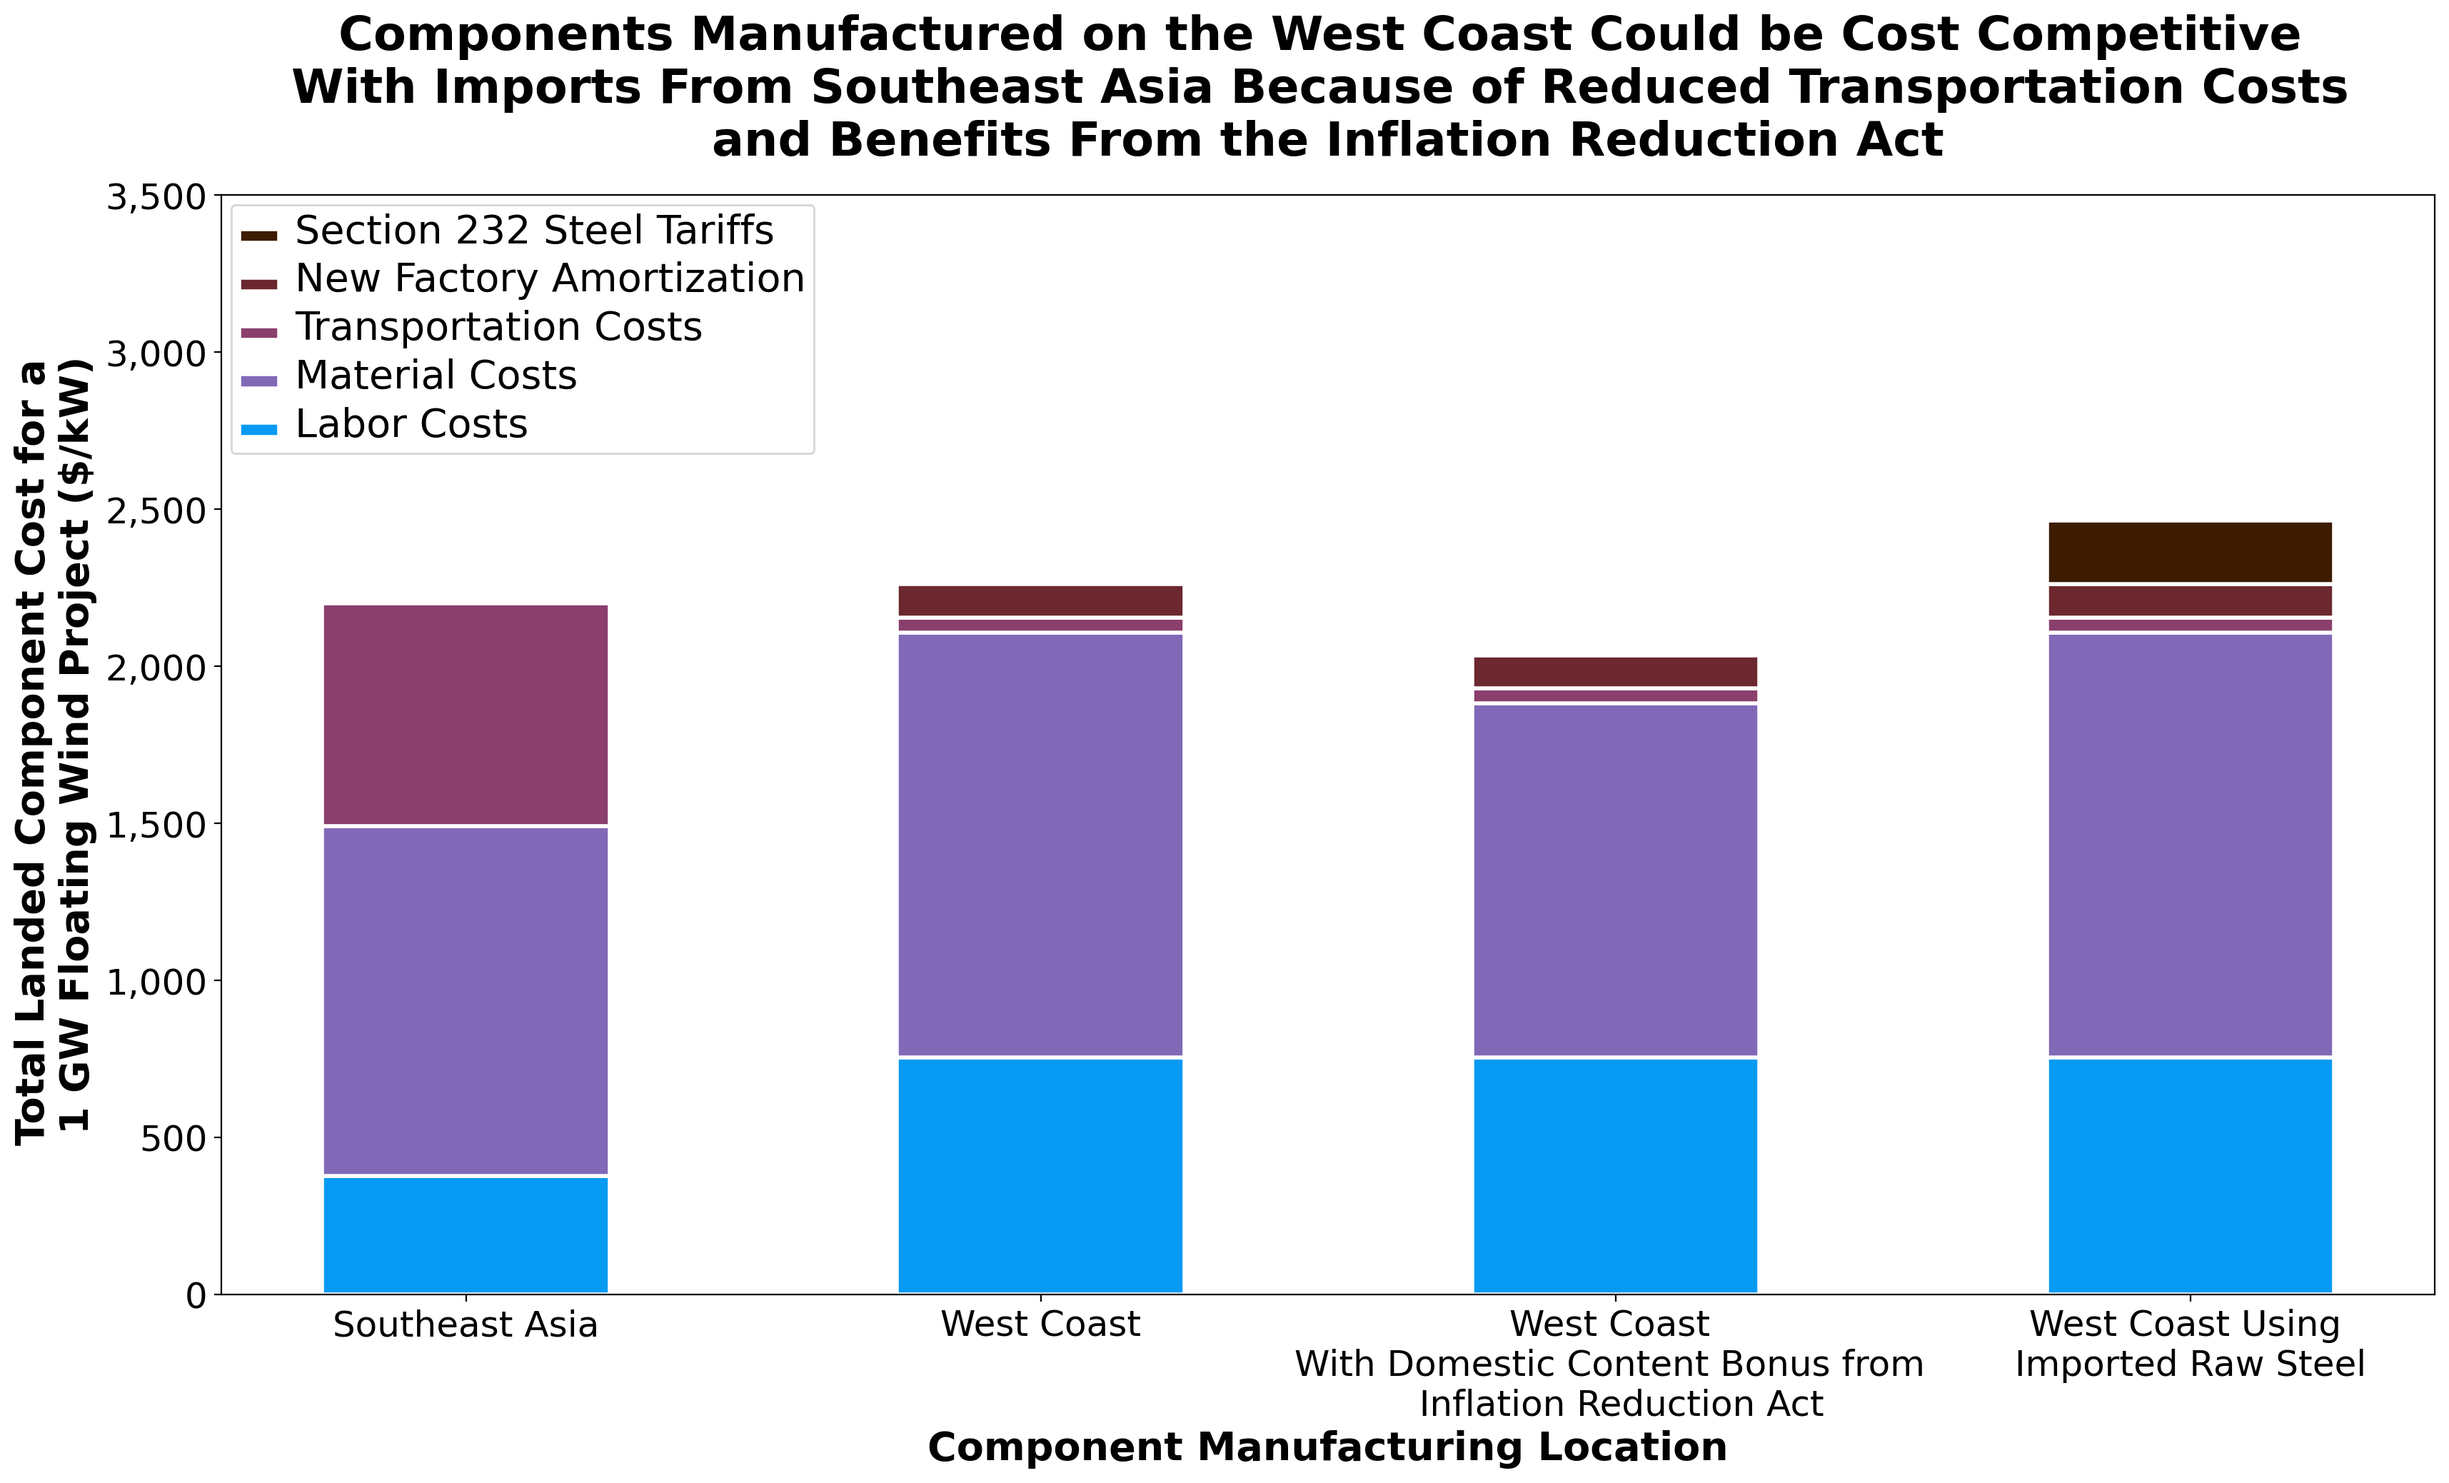
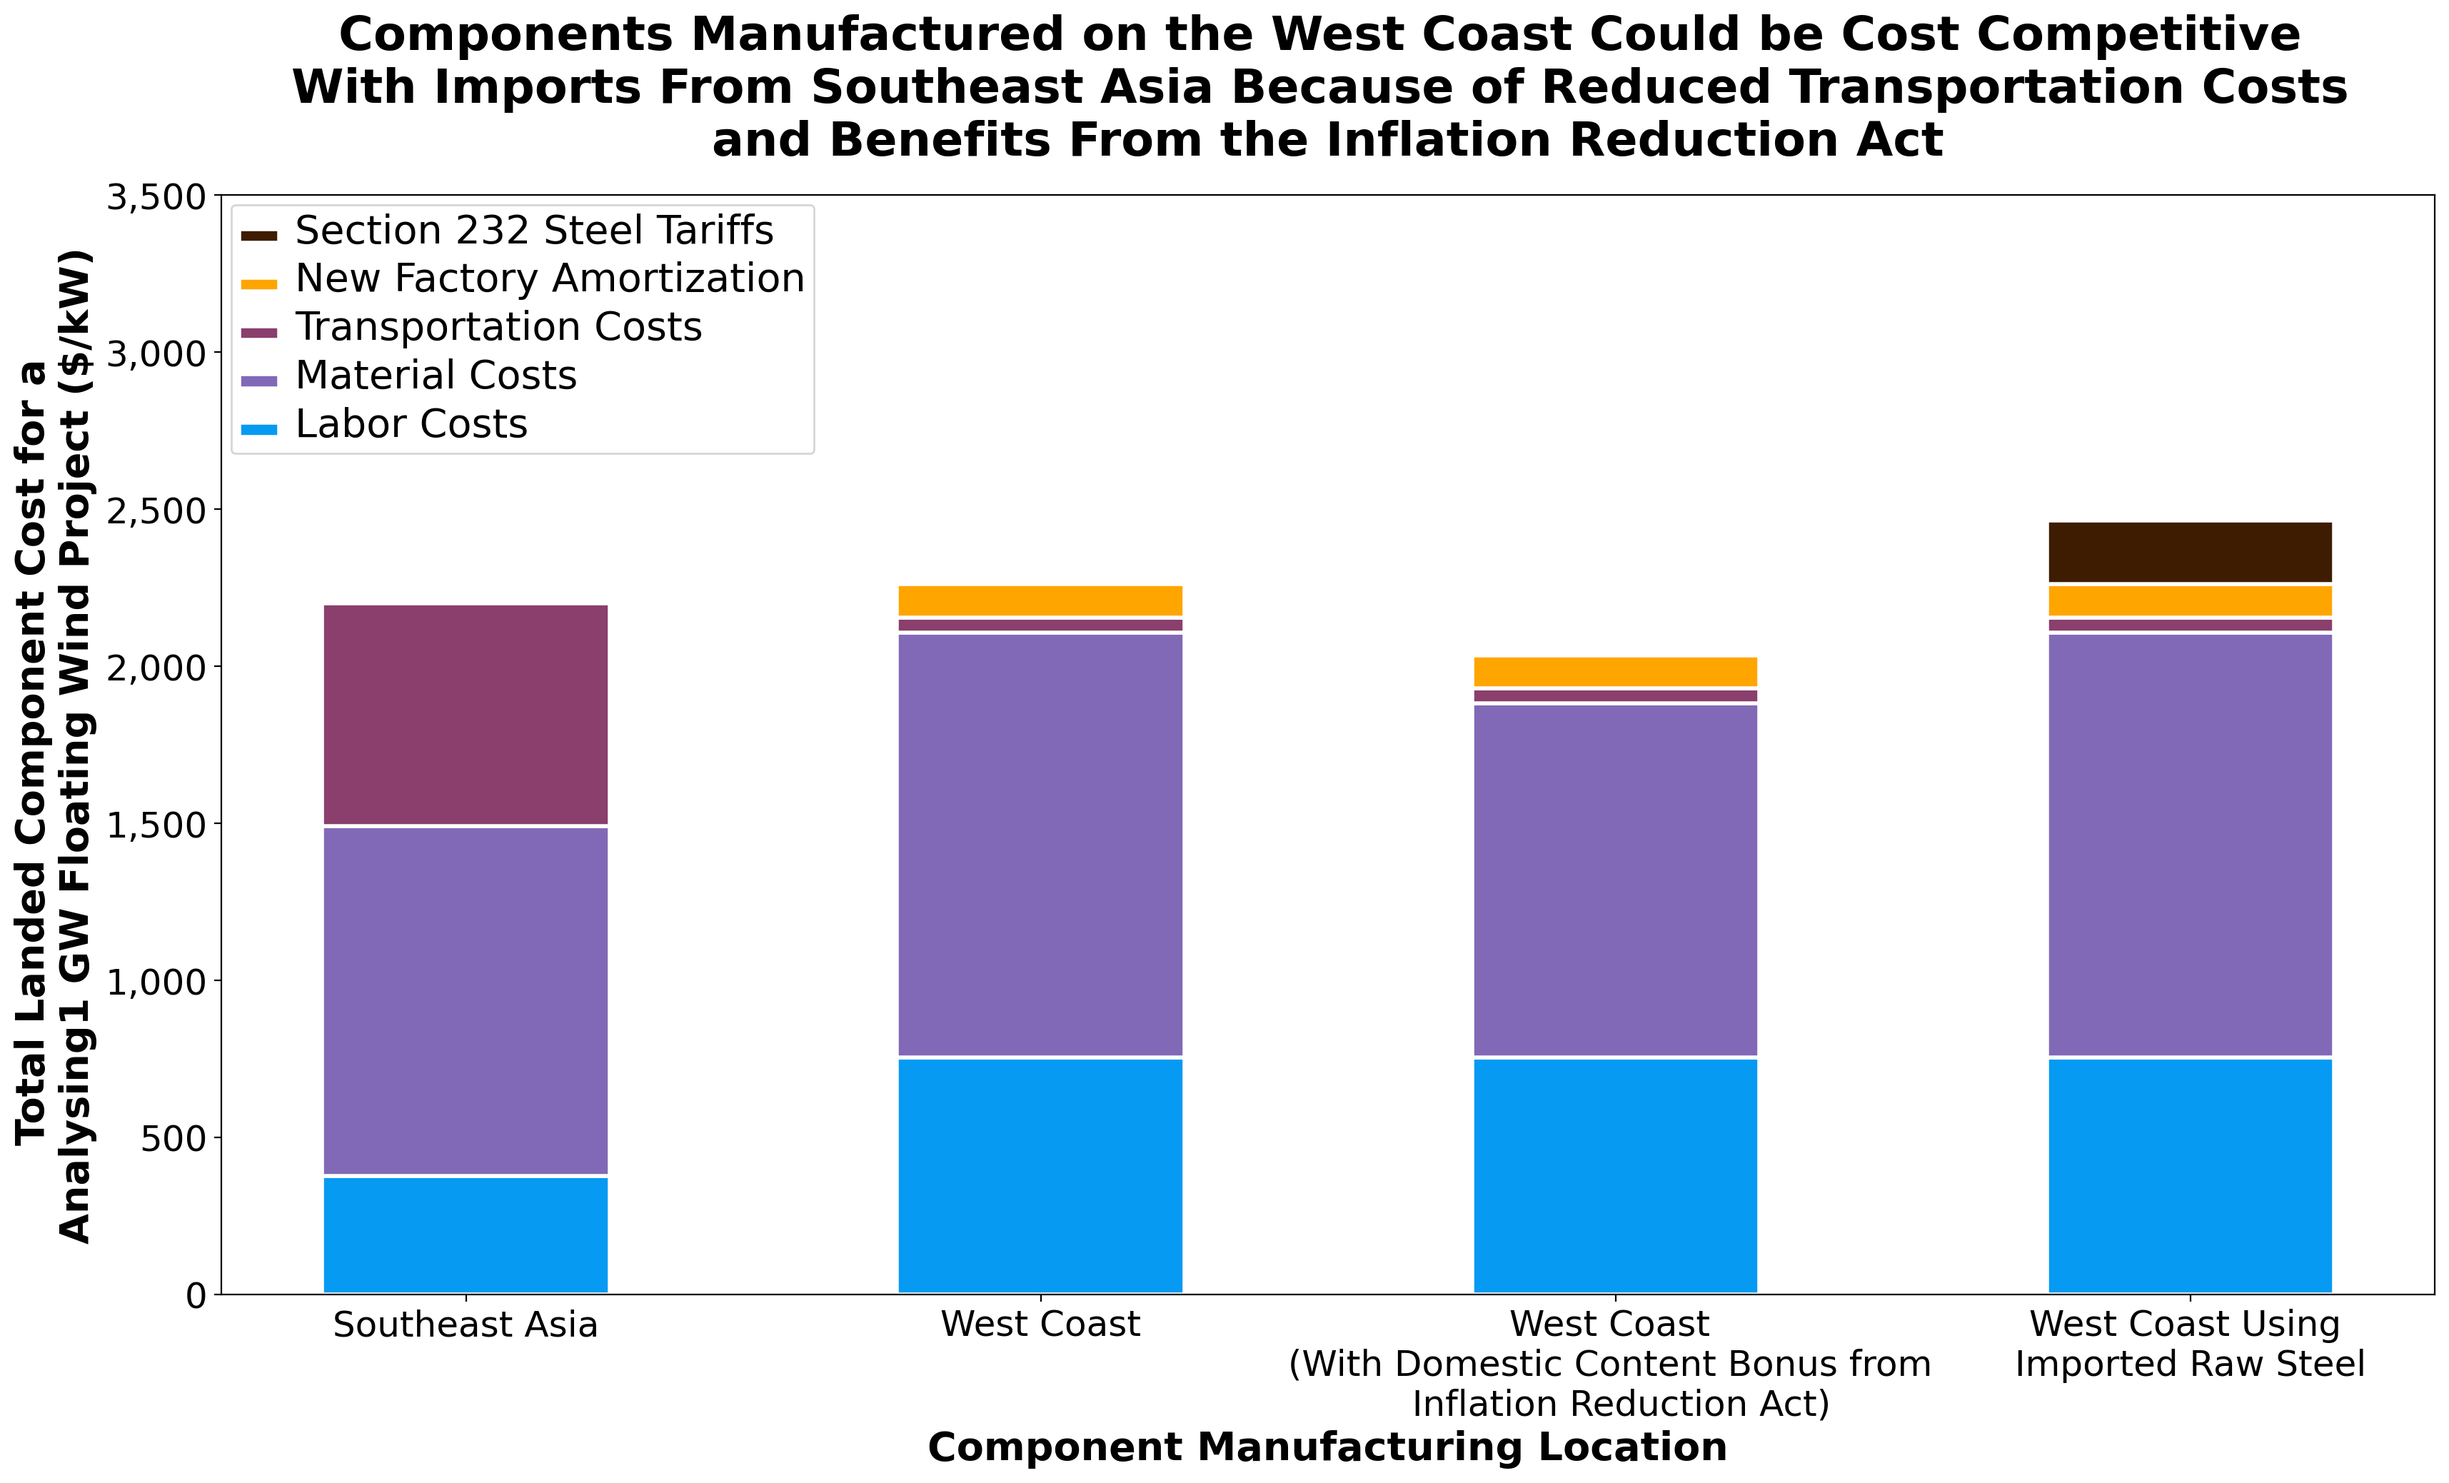
Color change and file cleanup

diff --git a/plt_waterfall.py b/plt_waterfall.py
@@ -7,26 +7,6 @@ df = pd.read_excel('waterfall chart calculations_test.xlsx', sheet_name = 'domes
 
 def plot_waterfall_domestic_content(df, fname):
     fig, ax = initFigAxis(figx=20, figy=10)
-
-    # scenario = df['scenario'].to_list() 
-    # value = df['value'].to_list() 
-
-    # bottom = [0] * 8
-    # for i in range (1,5):
-        # bottom[i] = bottom[i-1] + value[i-1]
-    # bottom[6] = value[5]
-
-    # c=['#3498DB']*8
-    # for i in [1,2,3,4,6]:
-        # if value[i]>0: 
-            # c[i]='#F1C40F'
-        # else:
-            # c[i]='#27AE60'
-
-    # scenario = scenario[:5] + scenario[6:]
-    # value = value[:5] + value[6:]
-    # bottom = bottom[:5] + bottom[6:]
-    # c = c[:5] + c[6:]
     
     scenarios = {
         'se_asia': {
@@ -54,16 +34,7 @@ def plot_waterfall_domestic_content(df, fname):
             'Transportation Costs': 48,
             'New Factory Amortization': 105,
             'Section 232 Steel Tariffs': 203,
-        },
-        # 'us_steel':  {
-            # 'Labor Costs': 756,
-            # 'Material Costs': 1352,
-            # 'Transportation Costs': 48,
-            # 'New Factory Amortization': 105,
-            # 'Section 232 Steel Tariffs': 203,
-        # }
-       
-        
+        },            
     }
    
         
@@ -71,7 +42,7 @@ def plot_waterfall_domestic_content(df, fname):
         'Labor Costs': '#069af3',
         'Material Costs': '#8169b7',
         'Transportation Costs': '#8a3f6d',
-        'New Factory Amortization': '#6b282f',
+        'New Factory Amortization': '#ffa500',
         # 'IRA Domestic Content Bonus Credits': '#ff6e54',
         'Section 232 Steel Tariffs': '#3d1c02',        
     }
@@ -113,82 +84,17 @@ def plot_waterfall_domestic_content(df, fname):
     
     ax.set_xlabel('Component Manufacturing Location')
             
-    
-
-    # bars = ax.bar(scenario,value,bottom=bottom,color=c, width=0.7)
     ax.set_title('Components Manufactured on the West Coast Could be Cost Competitive \nWith Imports From Southeast Asia Because of Reduced Transportation Costs \nand Benefits From the Inflation Reduction Act')
 
-# Cost Comparison of US West Coast and Southeast Asia Supply Chains: \nAnalysing the Impact of Domestic Content Benefits and Reduced Transportation Costs
-# A West Coast scenario could be cost competitive to the South East Asia supply chain \nconsidering Domestic Content Benefits and Reduced Transportation Costs
     ax.set_ylim(0, 3500)
     ax.set_ylabel('Total Landed Component Cost for a \nAnalysing1 GW Floating Wind Project ($/kW)')
 
     ax.get_yaxis().set_major_formatter(
         mpl.ticker.FuncFormatter(lambda x, p: format(int(x), ',')))
 
-    # ax.set_xticklabels(scenarios, rotation=45)
-
-    # for i, bar in enumerate(bars): 
-        # if value[i] > 0:
-            # ax.text(bar.get_x() + bar.get_width()/2, bottom[i] + value[i]*1.01, int(value[i]), ha='center', va='bottom', color='black')
-        # else:
-            # ax.text(bar.get_x() + bar.get_width()/2, bottom[i]+value[i]*1.1, int(value[i]), ha='center', va='top', color='black')
-
-    # plt.show()
     if fname is not None:
         myformat(ax)
         mysave(fig, fname)
 
-# def plot_waterfall_steel(df, fname):
-#     fig, ax = initFigAxis(figx=20, figy=10)
-
-#     scenario = df['scenario'].to_list() 
-#     value = df['value'].to_list() 
-
-#     value[4], value[6] = value[6], value[4]
-#     value[5] = sum(value[:5])
-
-#     bottom = [0] * 8
-#     for i in range (1,5):
-#         bottom[i] = bottom[i-1] + value[i-1]
-#     bottom[6] = value[5]
-
-#     c=['#3498DB']*8
-#     for i in [1,2,3,4,6]:
-#         if value[i]>0: 
-#             c[i]='#F1C40F'
-#         else:
-#             c[i]='#27AE60'
-
-#     scenario = scenario[:5] + scenario[6:]
-#     value = value[:5] + value[6:]
-#     bottom = bottom[:5] + bottom[6:]
-#     c = c[:5] + c[6:]
-
-#     bars = ax.bar(scenario,value,bottom=bottom,color=c, width=0.7)
-#     ax.set_title('US will need sufficient domestic steel production to qualify for tariffs to avoid higher project costs')
-
-#     ax.set_ylim(0, 3500)
-#     ax.set_ylabel('Manufacturing Cost ($/kW)')
-
-#     ax.get_yaxis().set_major_formatter(
-#     mpl.ticker.FuncFormatter(lambda x, p: format(int(x), ',')))
-
-#     ax.set_xticks(range(len(scenario)))
-#     ax.set_xticklabels(scenario, rotation=45)
-
-#     for i, bar in enumerate(bars): 
-#         if value[i] > 0:
-#             ax.text(bar.get_x() + bar.get_width()/2, bottom[i] + value[i]*1.01, int(value[i]), ha='center', va='bottom', color='black')
-#         else:
-#             ax.text(bar.get_x() + bar.get_width()/2, bottom[i]+value[i]*1.1, int(value[i]), ha='center', va='top', color='black')
-
-#     if fname is not None:
-#         myformat(ax)
-#         mysave(fig, fname)
-
-# plot_waterfall_steel(df, 'plt_waterfall.png')
-
-if __name__ == "__main__":  
-    print('hi')
+if __name__ == "__main__": 
     plot_waterfall_domestic_content(df,'plt_waterfall.png')
